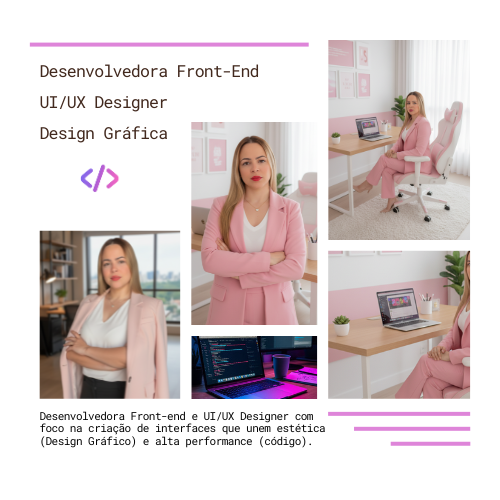
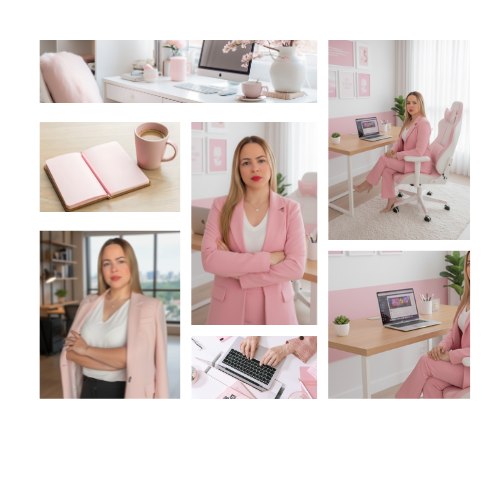
att

Changed region(s): [[0.06, 0.06, 0.66, 0.45], [0.06, 0.66, 0.66, 0.9], [0.66, 0.81, 0.96, 0.9]]

diff --git a/index.html b/index.html
@@ -92,7 +92,7 @@
                 <a href="https://wa.me/5531999749614"target="_blank" aria-label="Facebook"><i class="fa-solid fa-phone"></i></a>
                 <a href="https://www.linkedin.com/in/vivienediniz/"target="_blank" aria-label="linkdin"><i class="fa-brands fa-linkedin-in"></i></i></a>
                 <a href="https://github.com/vivienediniiz"target="_blank" aria-label="github"><i class="fa-brands fa-github"></i></a>
-                <a href="https://www.instagram.com/vivih_diniiz/"target="_blank" aria-label="Instagram"><i class="fab fa-instagram"></i></a>
+                <a href="https://www.behance.net/vivienediniz"target="_blank" aria-label="github"><i class="fa-brands fa-behance"></i></a>
                 </div>
         </div>  
     </main>
@@ -470,7 +470,7 @@
             </div>
 
             <div class="projeto-01" data-aos="zoom-in">
-                <a href="/assets/images/Website 02.png">
+                <a href="https://www.behance.net/gallery/238981573/Landing-Page-Corretora-de-Alto-Padrao">
                 <div class="projects" >
                     <div class="img-section">
                         <img src="assets/images/corretora-landingpage.png" alt="">

diff --git a/desenvolvimento-site.html b/desenvolvimento-site.html
@@ -101,7 +101,7 @@
                 </div>
 
             <div class="img-site">
-                <img src="assets/images/img-site.png" alt="">
+                <img src="assets/images/site.png" alt="">
             </div>
             </div>
 
@@ -136,7 +136,7 @@
                 </div>
 
             <div class="img-site">
-                <img src="assets/images/img-site.png" alt="">
+                <img src="assets/images/site.png" alt="">
             </div>
     </div>
 
